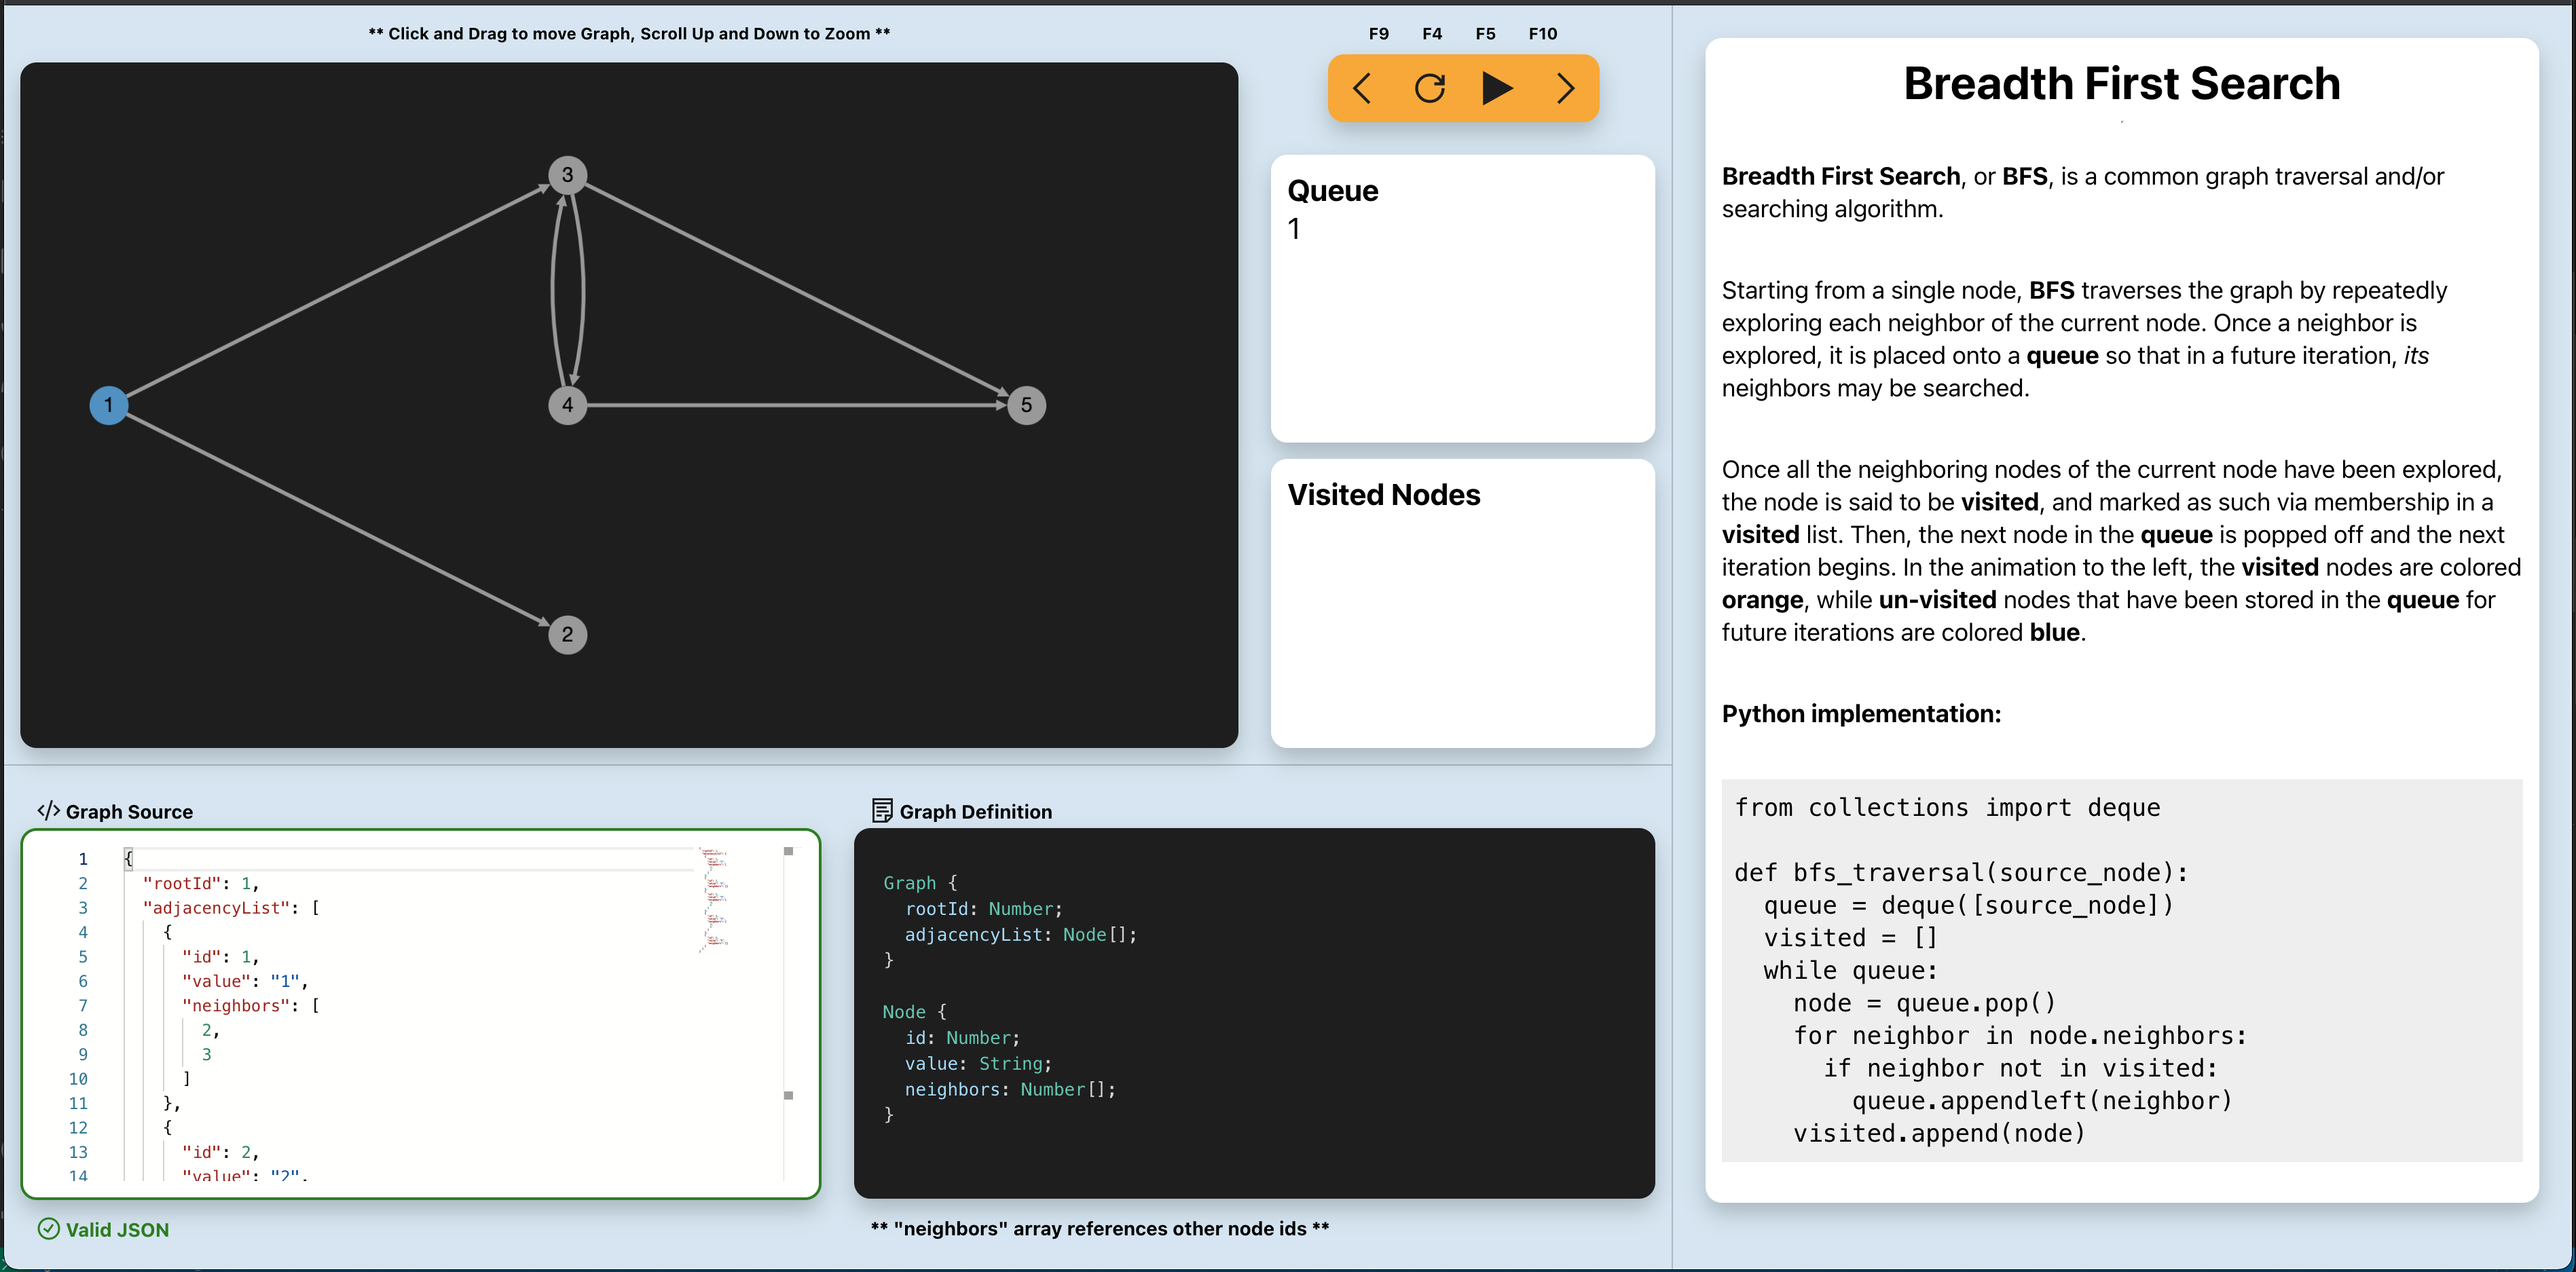
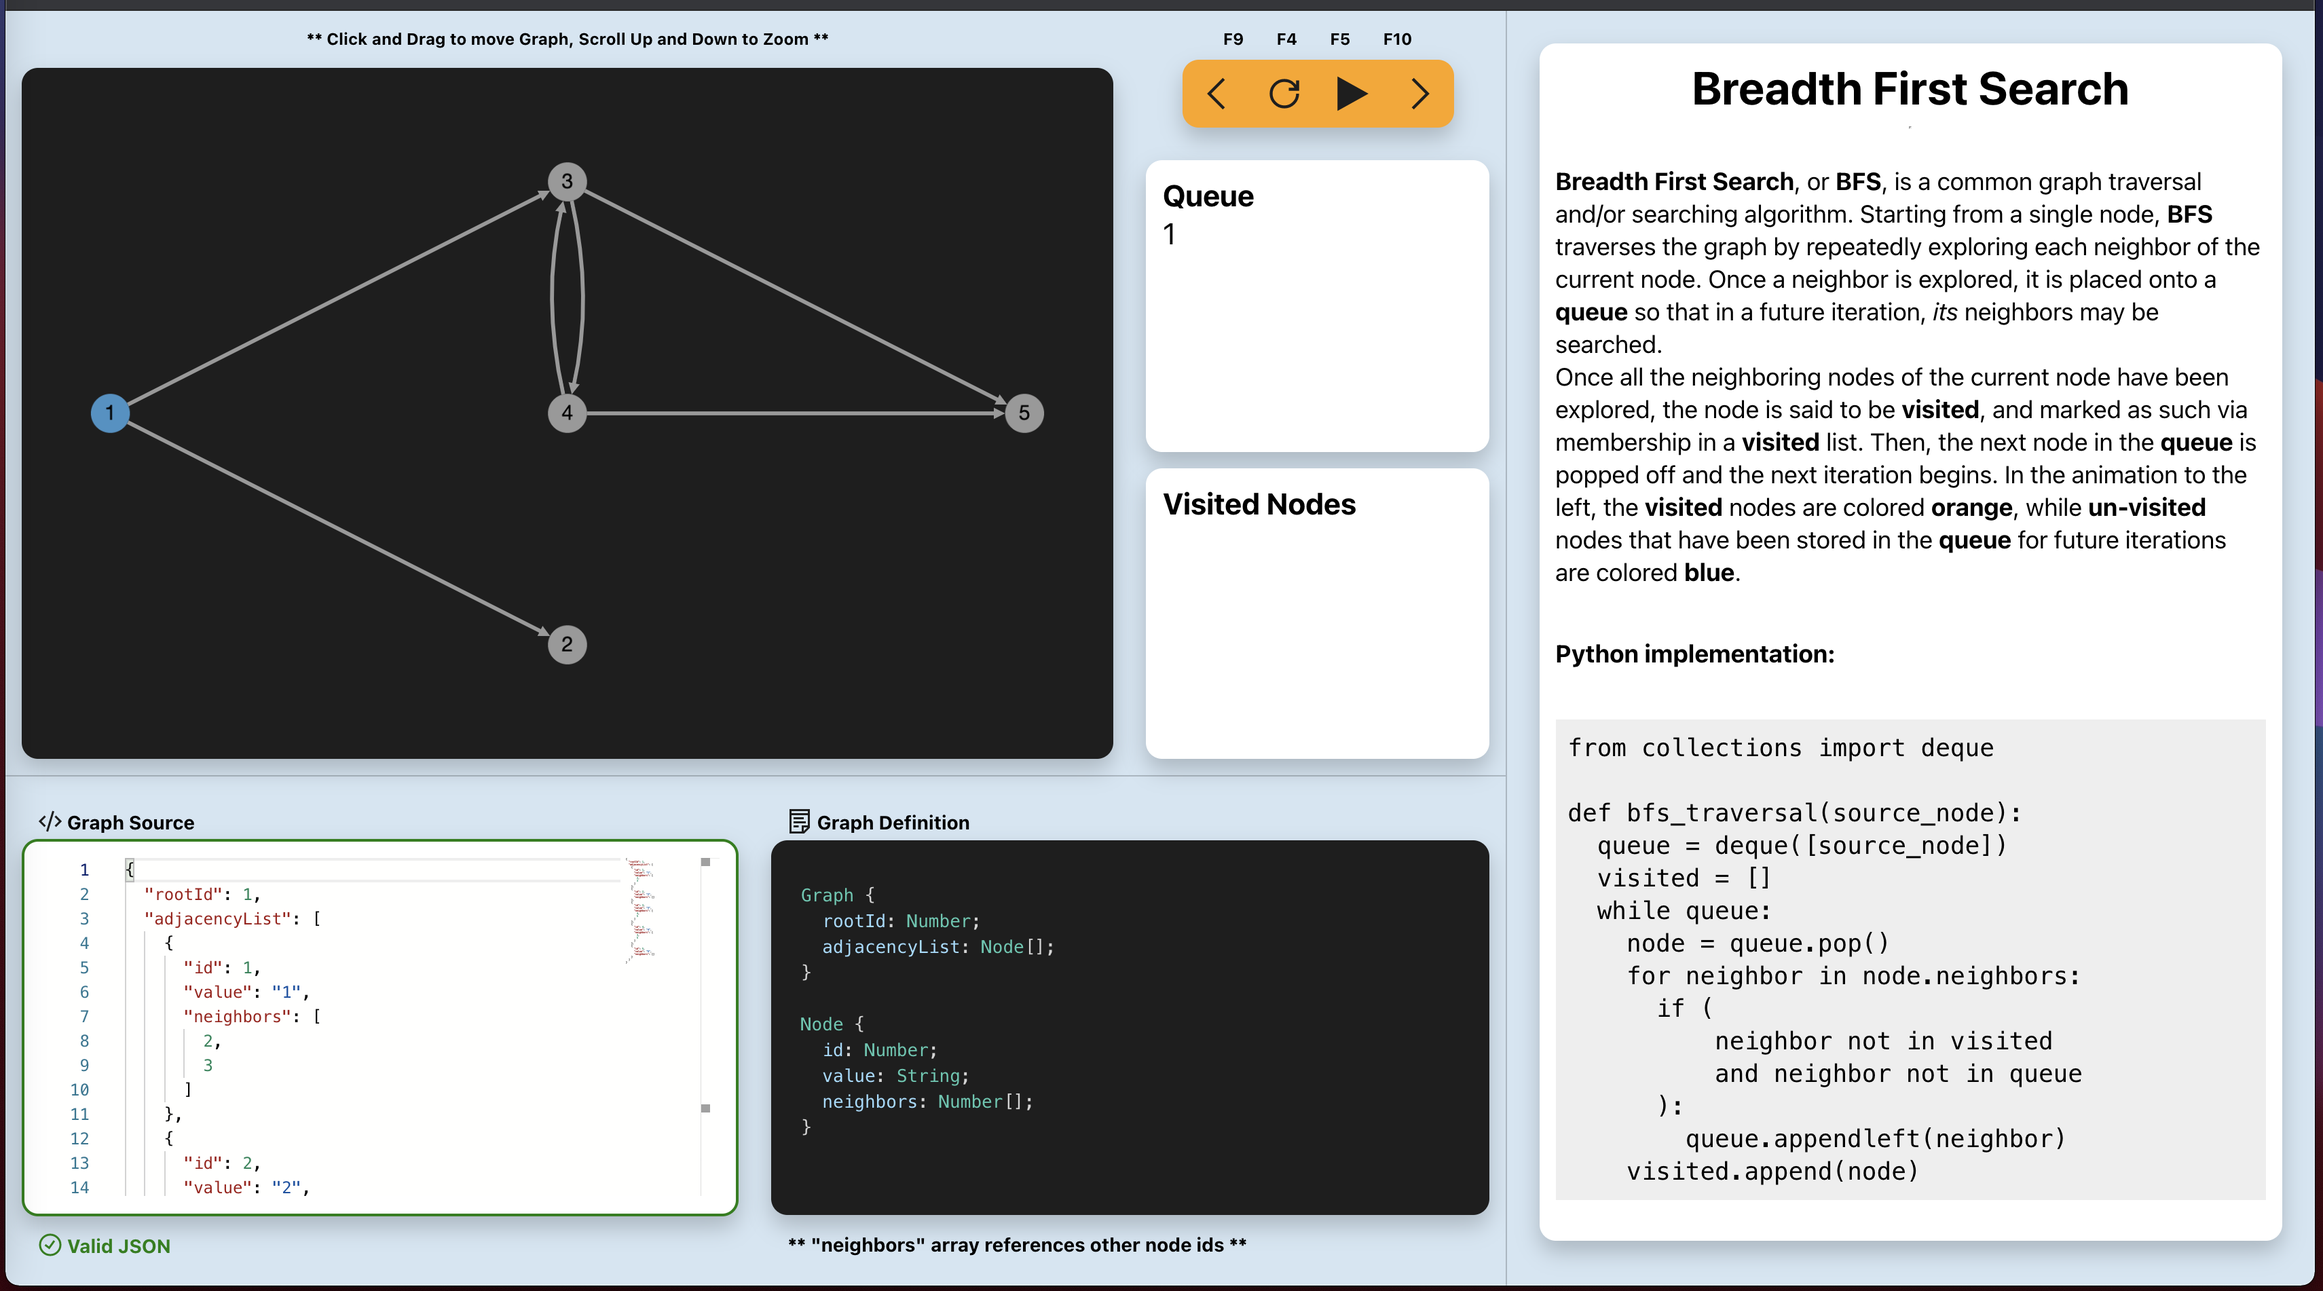
adjust readme, commentary

diff --git a/src/bfs/bfs-commentary/bfs-commentary.tsx b/src/bfs/bfs-commentary/bfs-commentary.tsx
@@ -27,14 +27,14 @@ const renderers = {
 
 const BFSCommentary = (): JSX.Element => {
   const CONTENT = `---
-  **Breadth First Search**, or **BFS**, is a common graph traversal and/or searching algorithm.\n
+  **Breadth First Search**, or **BFS**, is a common graph traversal and/or searching algorithm.
   Starting from a single node, **BFS** traverses the graph by repeatedly exploring each neighbor of the current node.
-  Once a neighbor is explored, it is placed onto a **queue** so that in a future iteration, *its* neighbors may be searched.\n
+  Once a neighbor is explored, it is placed onto a **queue** so that in a future iteration, *its* neighbors may be searched.  
   Once all the neighboring nodes of the current node have been explored, the node is said to be **visited**, and marked as such
   via membership in a **visited** list. Then, the next node in the **queue** is popped off and the next iteration begins. 
   In the animation to the left, the **visited** nodes are colored **orange**, while **un-visited** nodes that have been stored in the **queue** 
   for future iterations are colored **blue**.\n
-  **Python implementation:**\n
+  **Python implementation:**
   \`\`\`bash
   from collections import deque
 
@@ -44,7 +44,10 @@ const BFSCommentary = (): JSX.Element => {
     while queue:
       node = queue.pop()
       for neighbor in node.neighbors:
-        if neighbor not in visited:
+        if (
+            neighbor not in visited
+            and neighbor not in queue
+        ):
           queue.appendleft(neighbor)
       visited.append(node)
   \`\`\` 

diff --git a/README.md b/README.md
@@ -33,7 +33,7 @@ Access the web app at [http://localhost:1234](http://localhost:1234)
 
 ## App Walkthrough 
 
-![Algo Helper Screenshot](./AHScreenShot.png)
+![Algo Helper Screenshot](./AHScreenshot.png)
 
 ### Split Panes
 The different areas of the user interface are divided into adjustable panes - click and drag the edge of a pane horizontally or vertically to enlarge a specific area when engaging with it.
@@ -42,7 +42,7 @@ The different areas of the user interface are divided into adjustable panes - cl
 The debugger is located near the top of the interface and contains back, reset, play, pause, and forward controls, triggered by button clicks as well as the labeled key presses. Use the debugger to step forwards and backwards through the algorithm, play it continuously, or reset from the beginning. The progress of the algorithm can be tracked with the visual of the graph, as well as the panes showing the data structures leveraged by the algorithm and their current state.
 
 ### Graph Source & Definition
-The graph source on the bottom left represents the input graph to be acted upon by the algorithm. It is a json representation that must conform to the simple adjacency list definition shown to its right. A simple graph is automatically loaded as a default, but any input graph may be typed or pasted into the source window. As long as the input graph validates successfully against the definition, it will be used for any subsequent algorithm iterations.
+The graph source on the bottom left represents the input graph to be acted upon by the algorithm (note that in our case we are using a directed graph). It is a json representation that must conform to the simple adjacency list definition shown to its right. A simple graph is automatically loaded as a default, but any input graph may be typed or pasted into the source window. As long as the input graph validates successfully against the definition, it will be used for any subsequent algorithm iterations.
 
 ### Commentary
 The rightmost pane contains a brief commentary describing the algorithm, and an example implementation in code.
